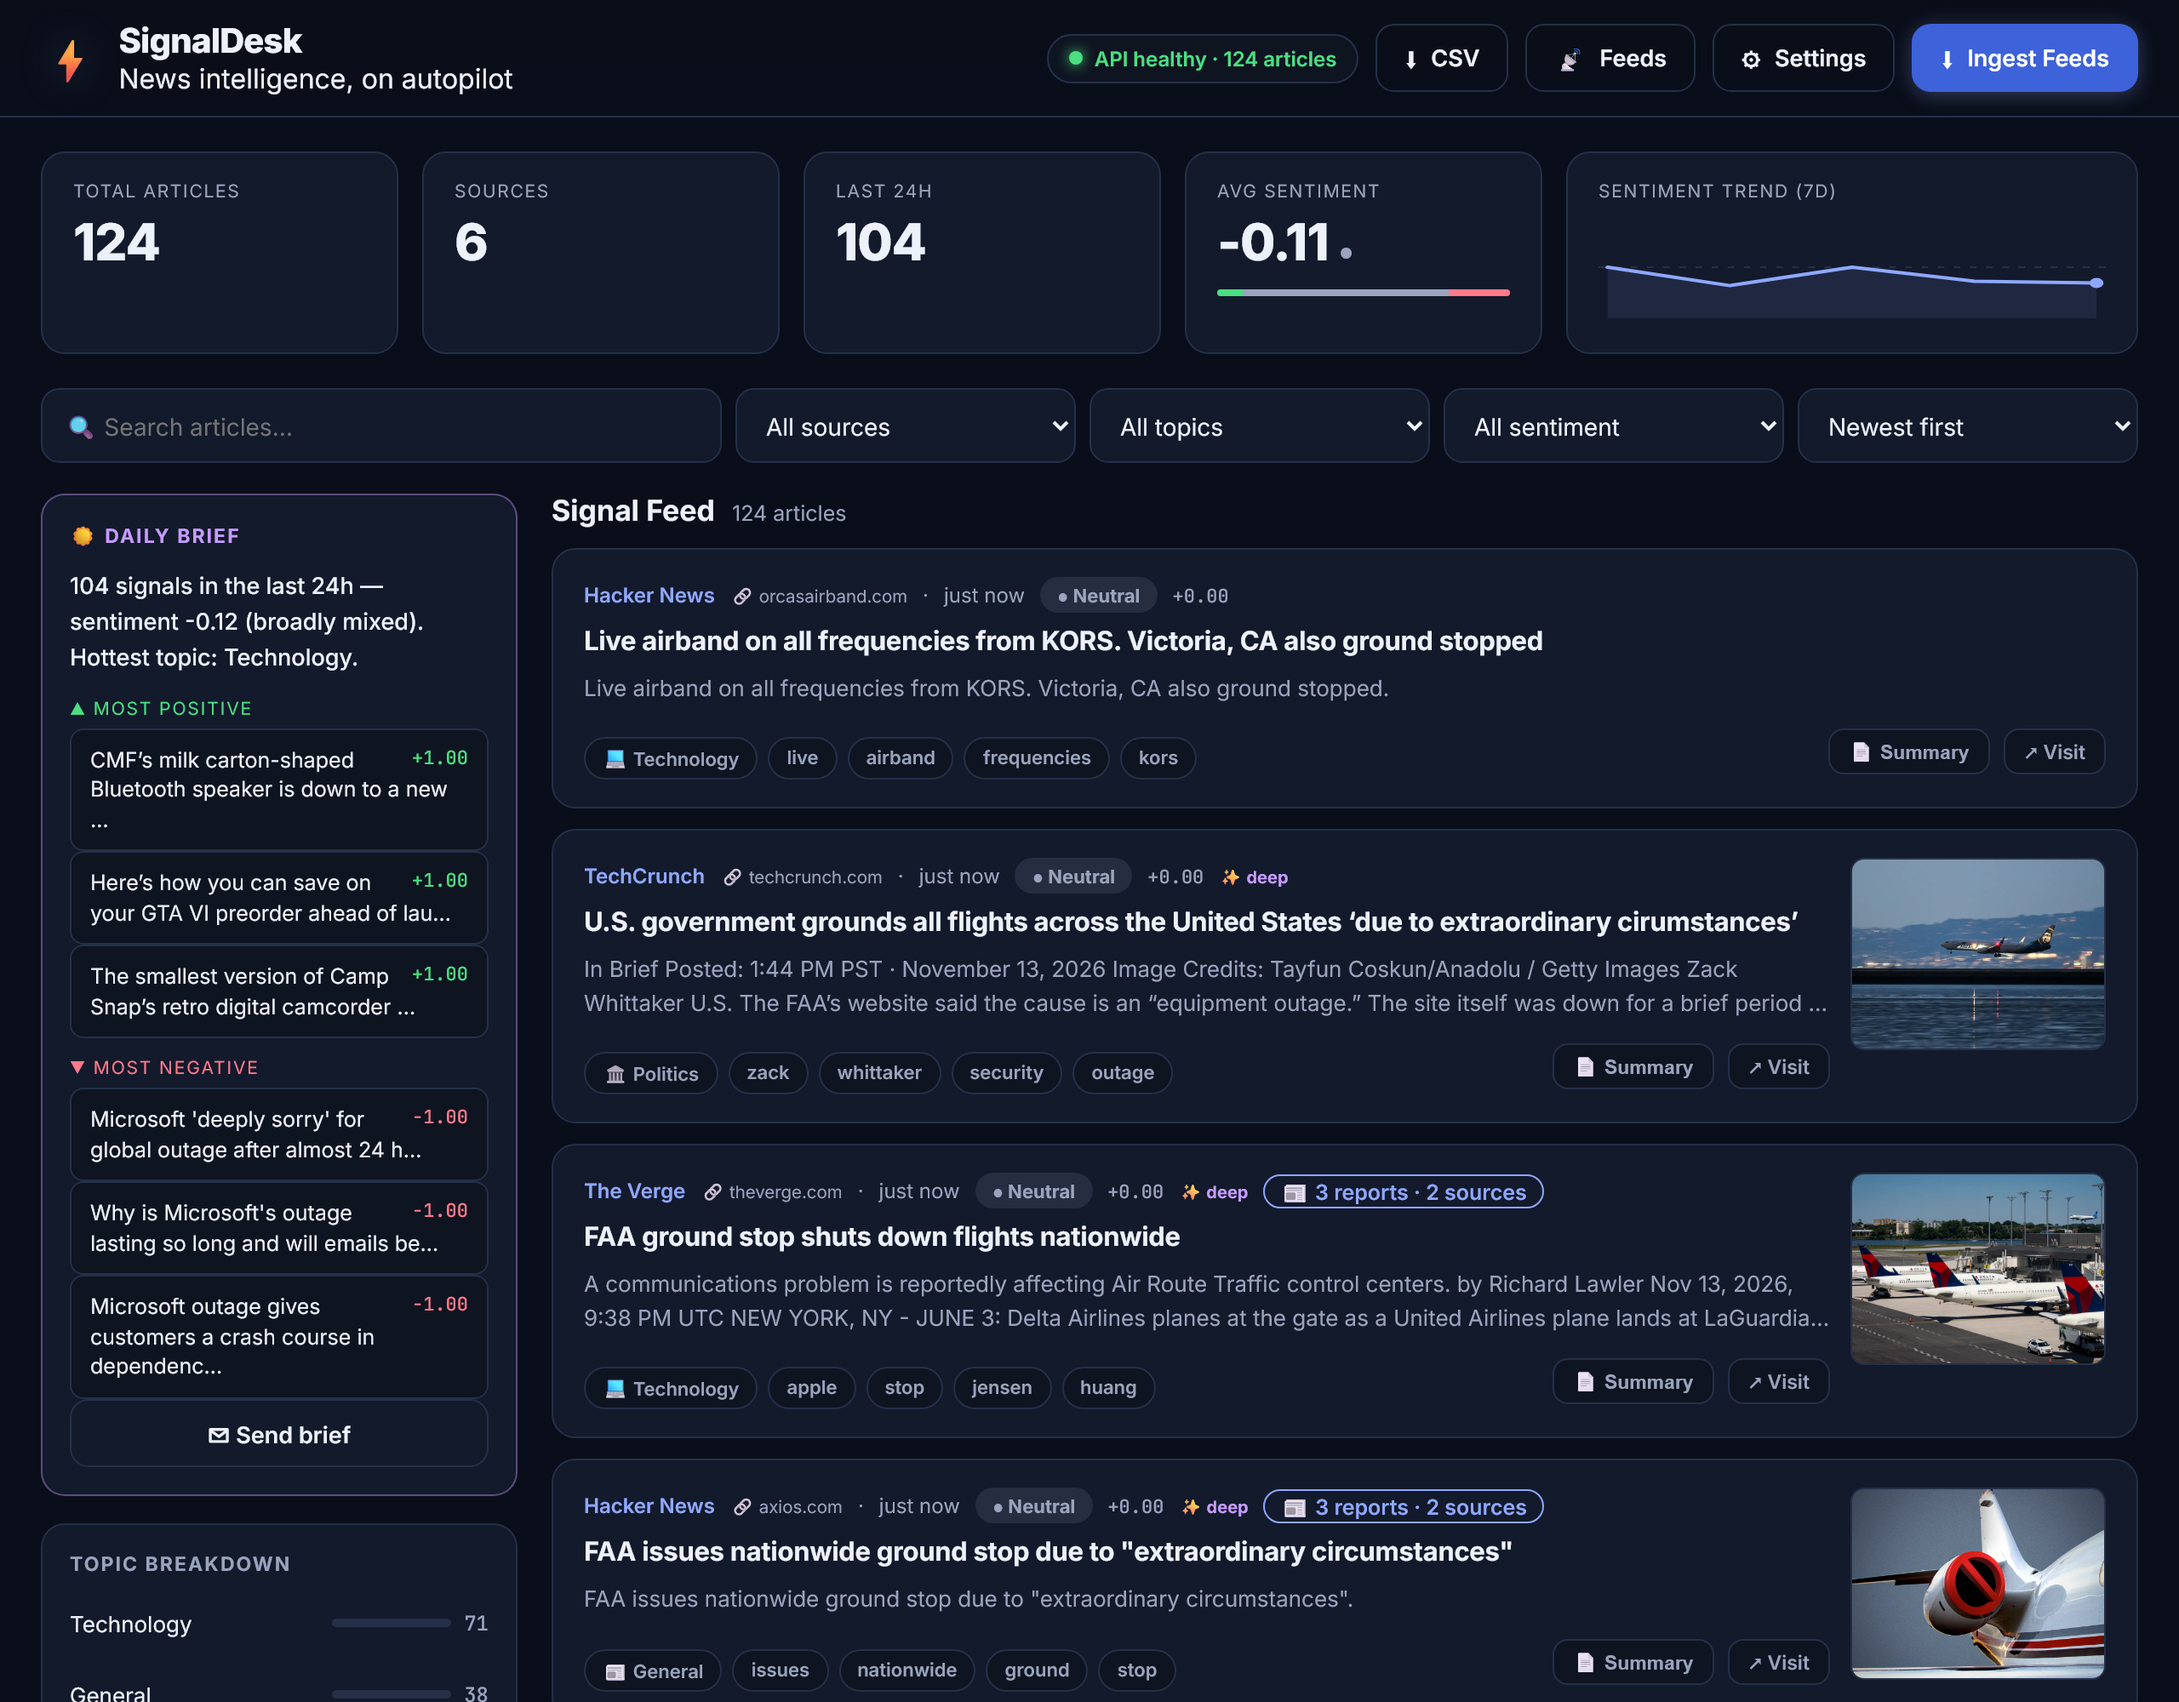
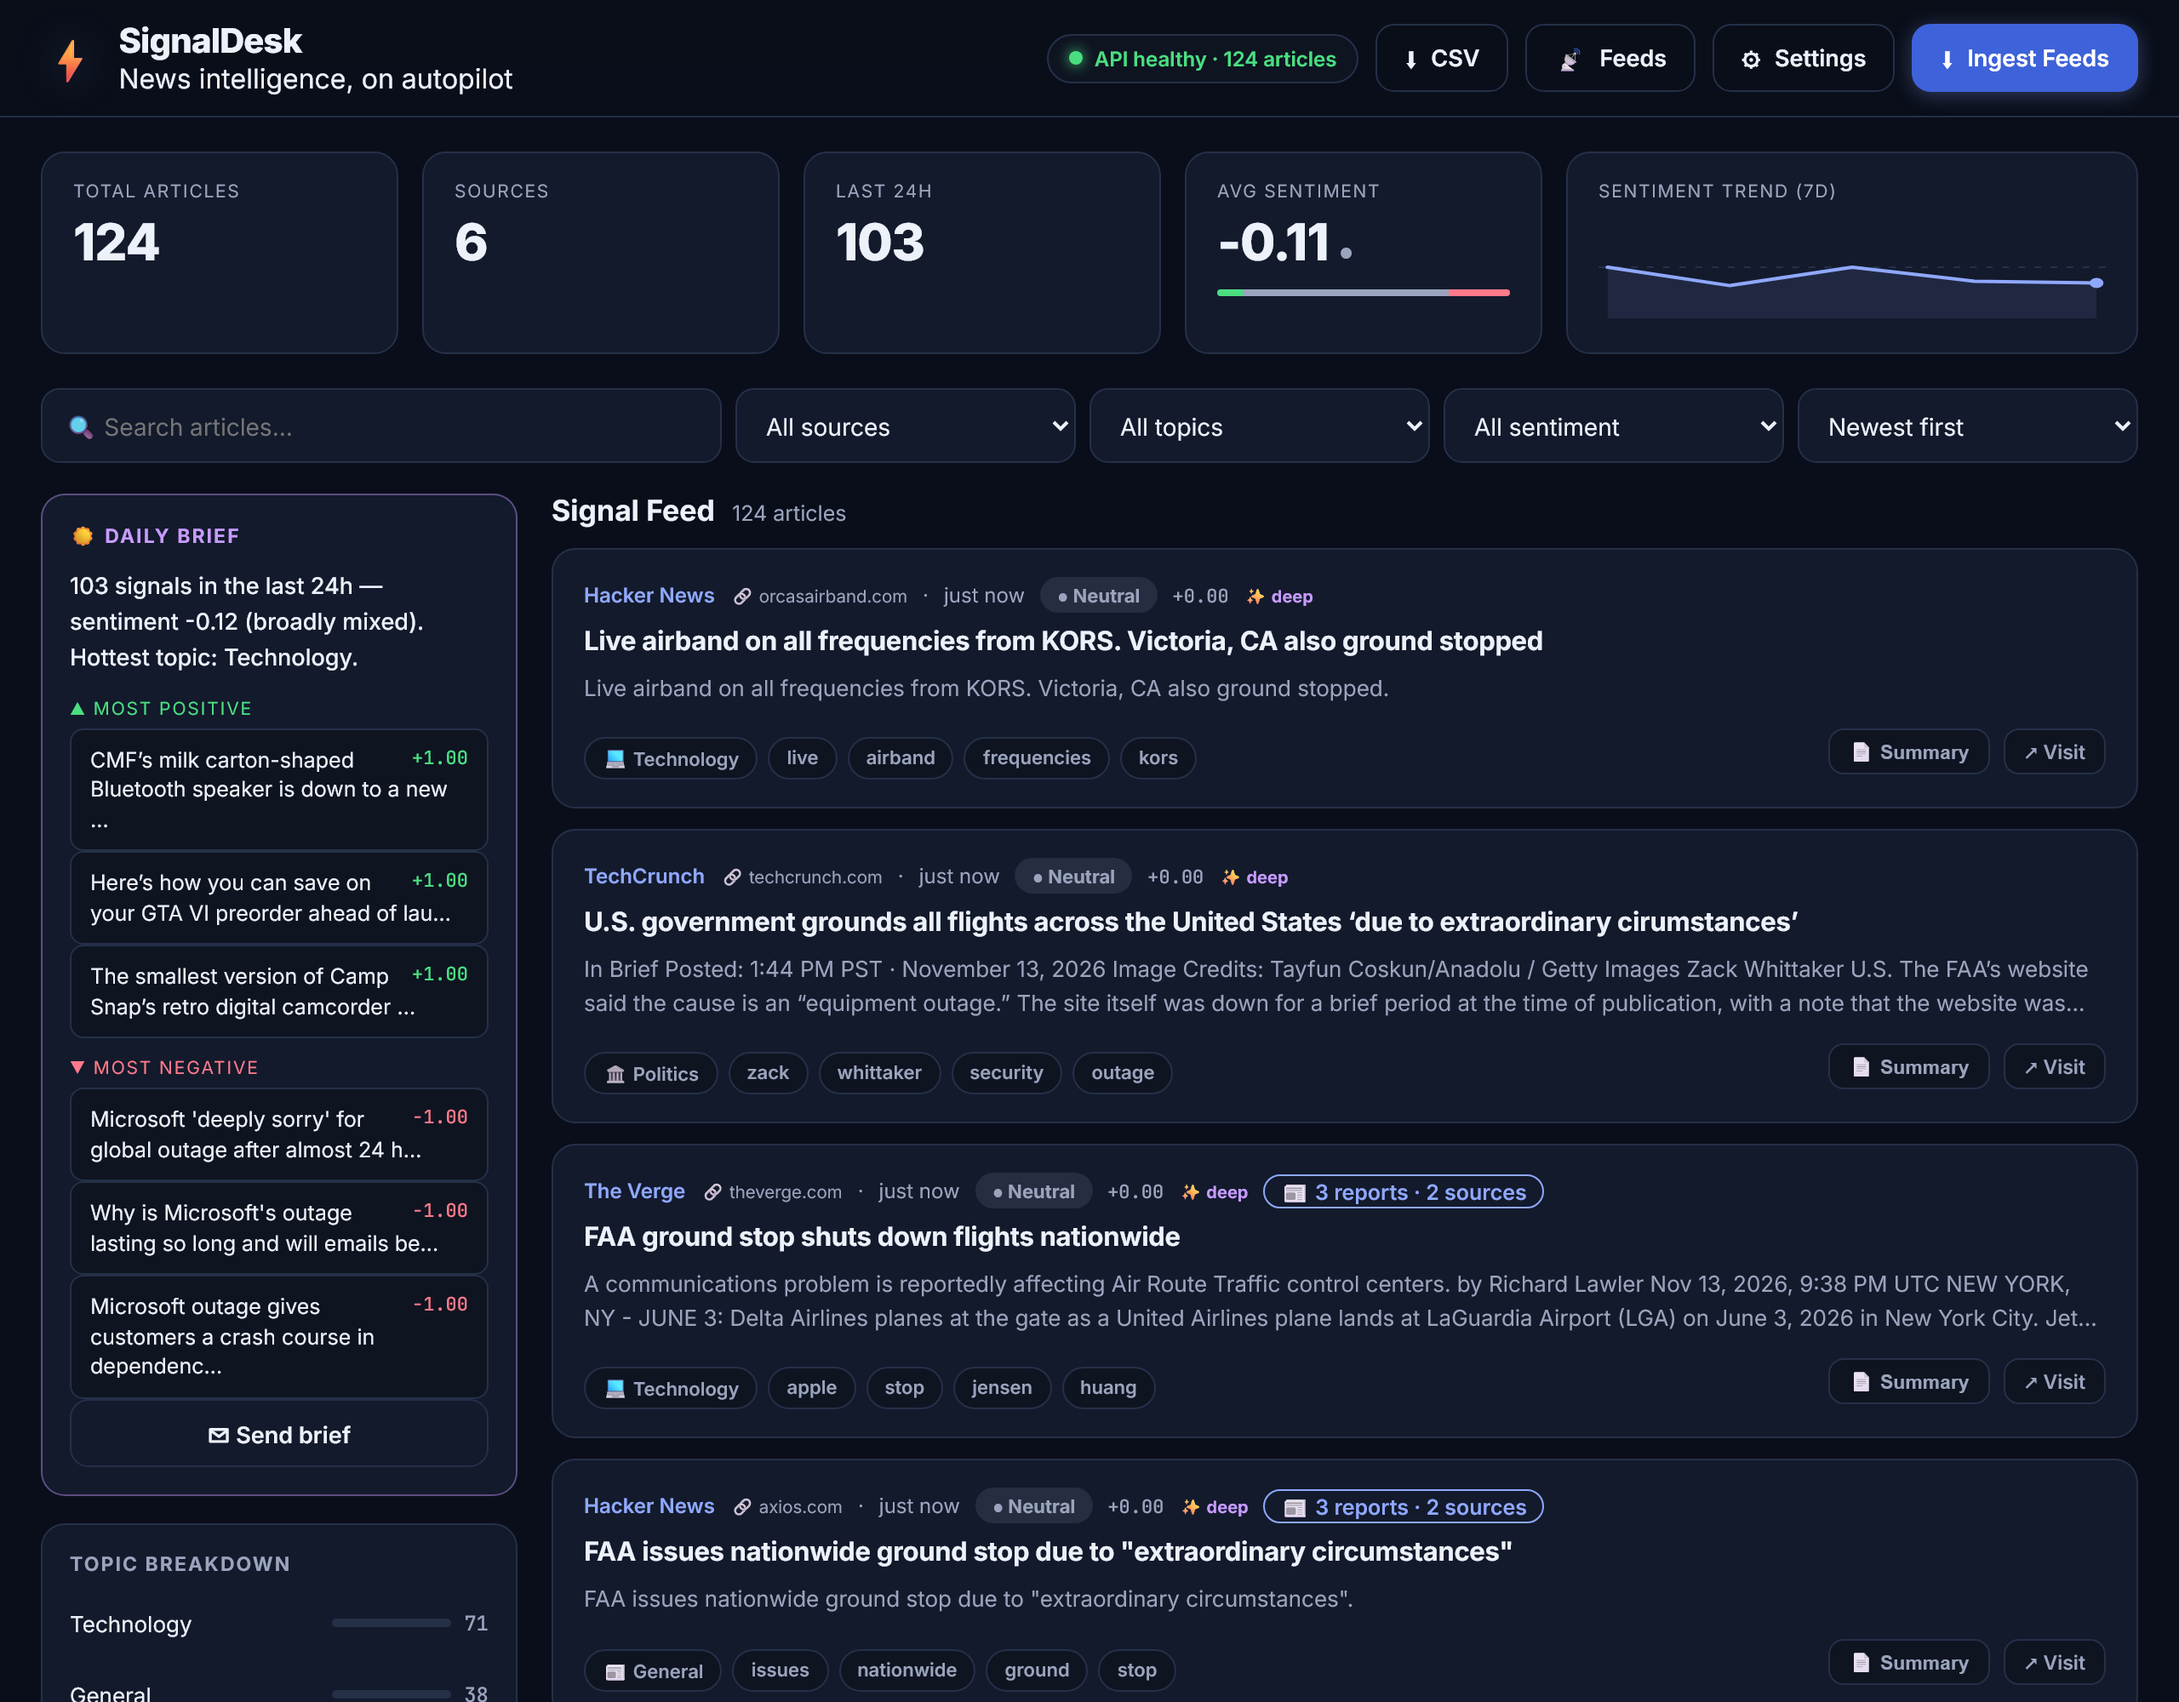
Show lead images only on the article page; ignore logs

diff --git a/frontend/styles.css b/frontend/styles.css
@@ -599,14 +599,6 @@ html[data-compact="on"] .stats-row { grid-template-columns: repeat(2, 1fr); }
 }
 
 /* Lead images (from the article's real page) */
-.article-card:has(.article-thumb) { display: flex; flex-direction: column; gap: 12px; min-width: 0; }
-.article-card .article-main { min-width: 0; flex: 1; }
-.article-thumb {
-  flex: 0 0 auto; width: 100%; aspect-ratio: 21 / 9; border-radius: var(--radius-sm, 8px);
-  overflow: hidden; background: var(--tertiary-bg); border: 1px solid var(--border);
-}
-.article-thumb.no-img { display: none; }
-.thumb-img { width: 100%; height: 100%; object-fit: cover; display: block; }
 .article-domain { color: var(--text-dim); font-size: 0.85em; }
 .article-domain::before { content: "🔗 "; }
 .reader-hero { margin: 0 0 14px; }
@@ -617,11 +609,6 @@ html[data-compact="on"] .stats-row { grid-template-columns: repeat(2, 1fr); }
 }
 .reader-hero figcaption { margin-top: 6px; font-size: 0.8rem; color: var(--text-dim); }
 .reader-hero figcaption a { color: var(--primary); }
-html[data-compact="on"] .article-thumb { display: none; }
-@media (min-width: 700px) {
-  .article-card:has(.article-thumb) { flex-direction: row-reverse; align-items: flex-start; }
-  .article-thumb { width: 150px; aspect-ratio: 4 / 3; }
-}
 .reader-hero.no-img { display: none; }
 
 /* Story clustering */

diff --git a/frontend/app.js b/frontend/app.js
@@ -290,9 +290,7 @@ function renderArticles(items) {
     const cleanSummary = a.summary_deep || a.summary;
     const keywords = (a.keywords || "").split(",").map((k) => k.trim()).filter(Boolean).slice(0, 4);
     const domain = a.is_seed ? "" : domainOf(a.url);
-    const thumb = a.image_url && !a.is_seed ? `<div class="article-thumb">${imageTag(a.image_url, "thumb-img")}</div>` : "";
     card.innerHTML = `
-      ${thumb}
       <div class="article-main">
         <div class="article-meta">
           <span class="article-source">${escapeHtml(a.source)}</span>

diff --git a/README.md b/README.md
@@ -41,7 +41,7 @@ And the platform runs itself: a built-in scheduler re-ingests every feed every 3
 | 📡 **Live RSS ingestion** | Pull from any RSS feed with one click — 110 real articles in under 2 seconds |
 | 🤖 **Auto-pilot scheduler** | Background task re-fetches every feed on a configurable interval; feeds report health status ("ok: 5 added · 2h ago") |
 | 📄 **Full-text summaries** | Each article's external link is fetched and parsed into a skimmable brief — TL;DR, key points, key numbers, quotes, and bottom line — so you get 90% of the story without opening the site |
-| 🖼 **Real lead images** | Each article shows the lead image (`og:image`) from its real page, plus the story's true domain and a "verify at the source" link — a quick legitimacy check. Images are hotlinked and vanish cleanly if a site blocks them |
+| 🖼 **Real lead images** | Each article's reader page shows the lead image (`og:image`) from its real page, and every card shows the story's true domain with a "verify at the source" link in the reader — a quick legitimacy check. Images are hotlinked and vanish cleanly if a site blocks them |
 | 📰 **Story clustering** | Headlines about the same event from different outlets are grouped automatically (word-overlap similarity within a time window). Cards show "3 reports · 2 sources"; click to see all coverage, and the reader lists "Also covered by" |
 | 📖 **Article reader page** | Clicking an article opens a dedicated reader at `/#/article/{id}`: the straightforward summary up top, then skimmable sections (key points, numbers, quotes, bottom line) with chip navigation |
 | 🌗 **Light & dark themes** | Accessible triadic color system (blue/green/violet) with a settings menu — both themes verified WCAG AA programmatically |
